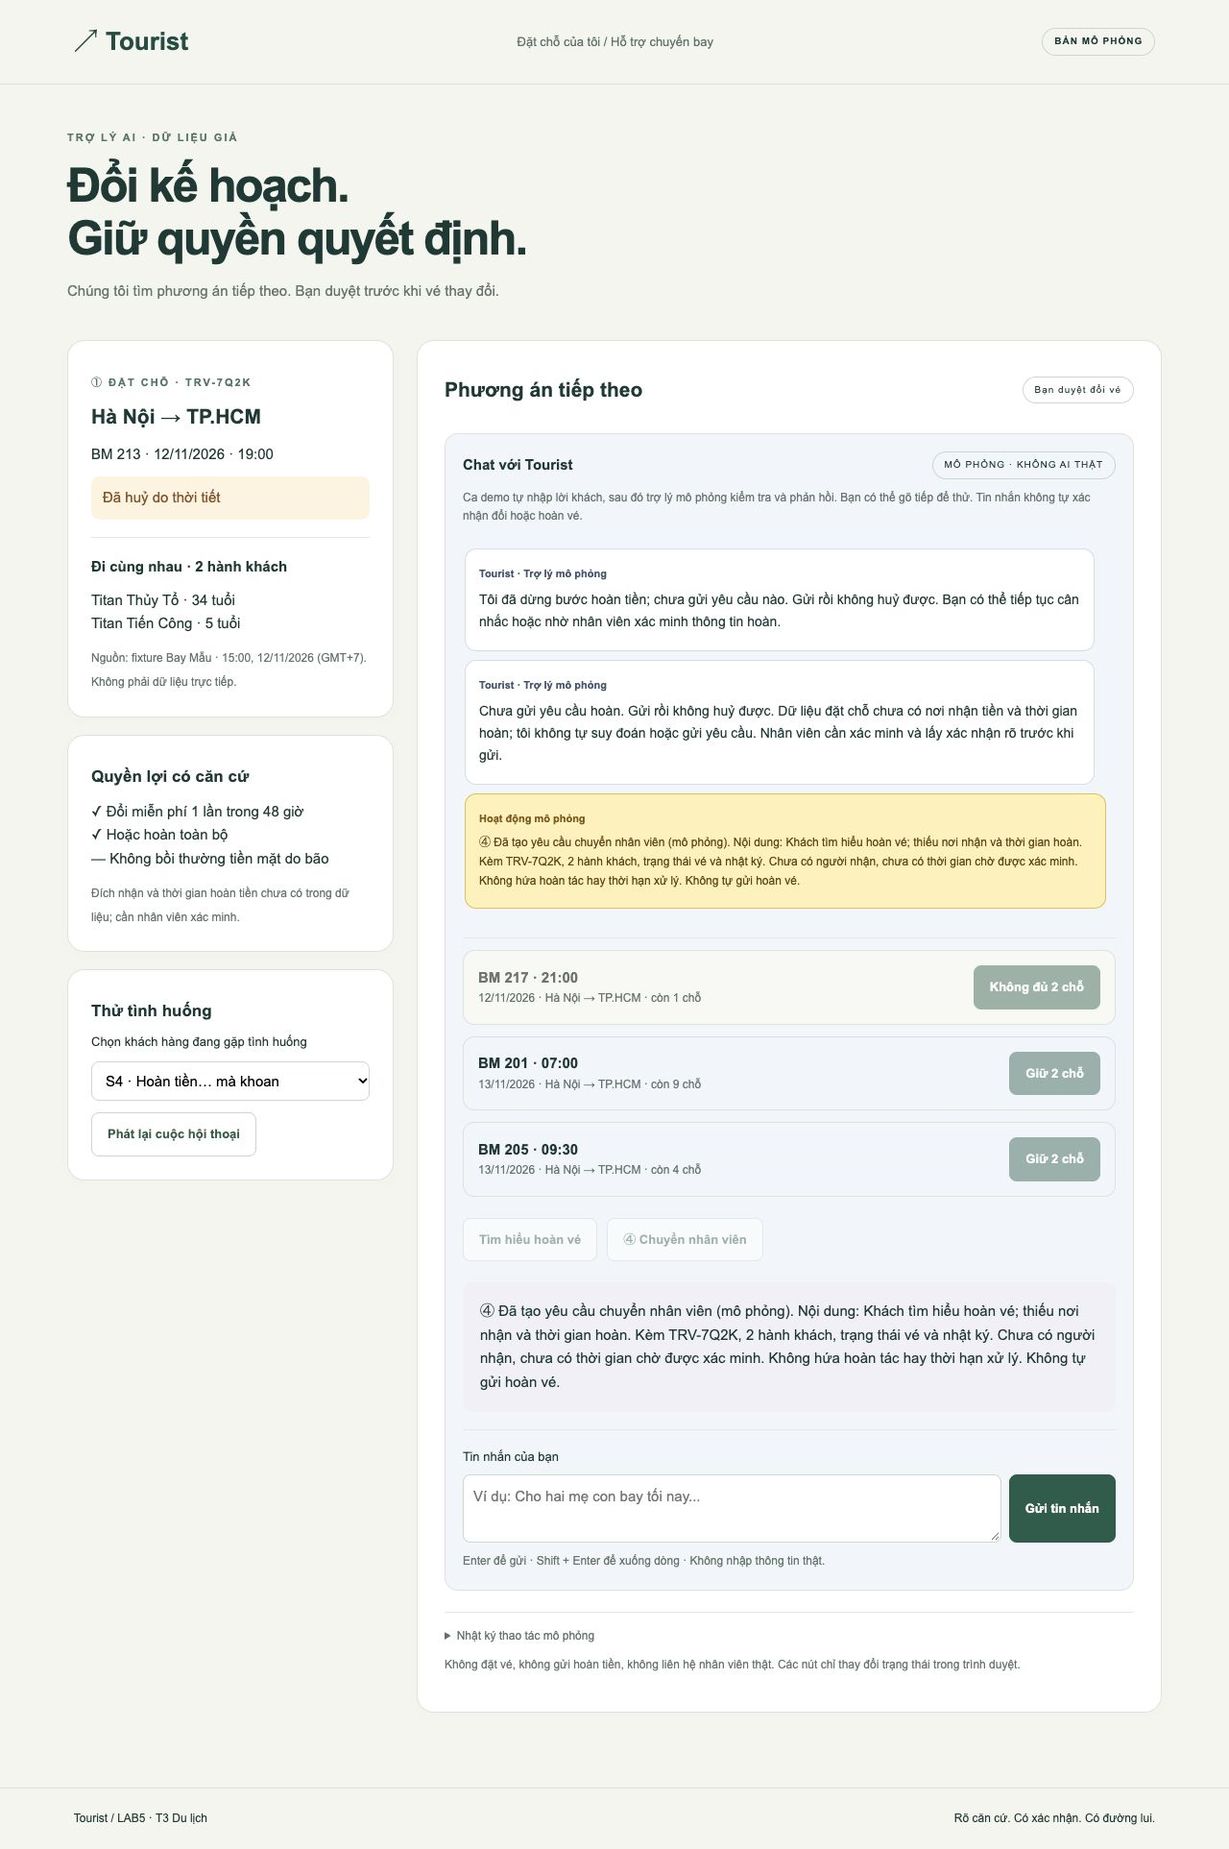
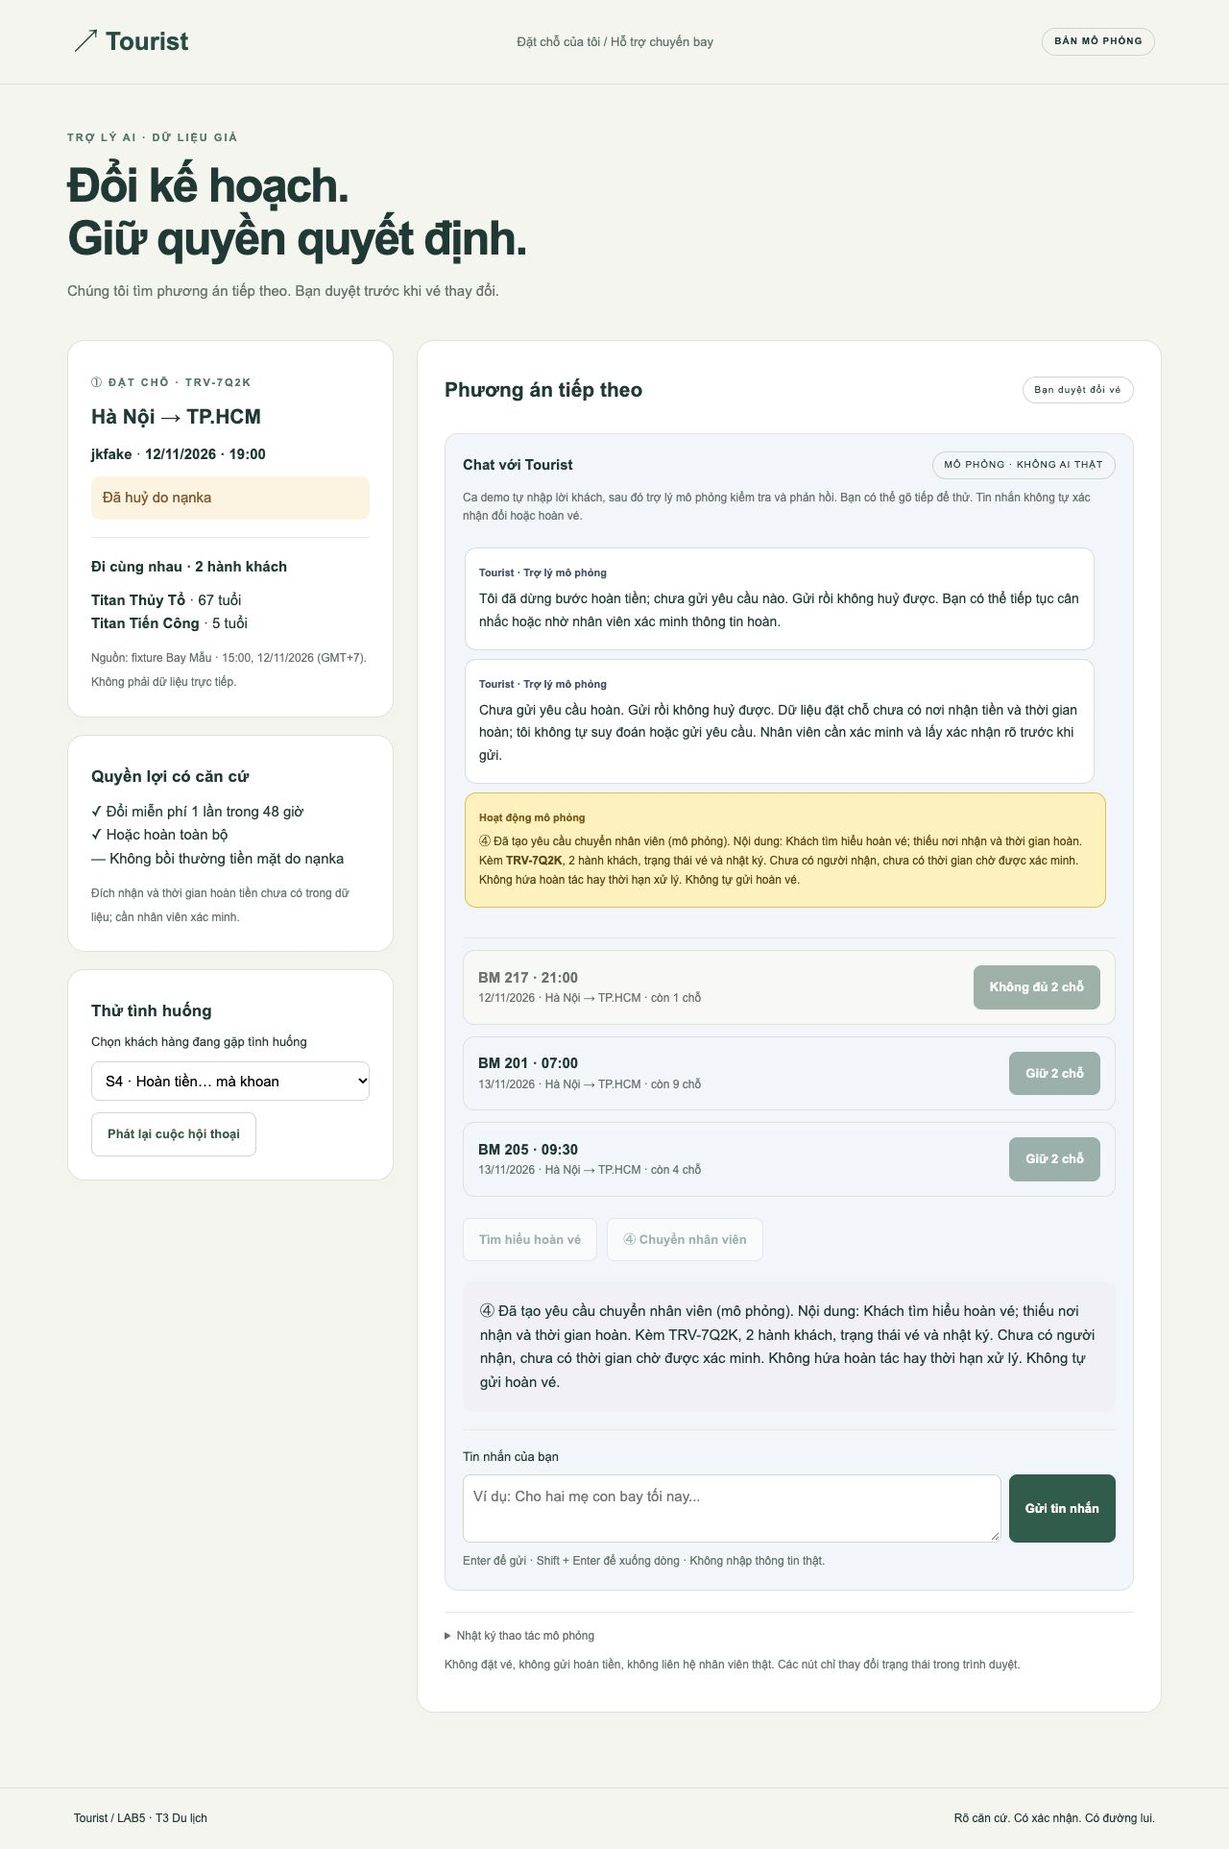
Emphasize booking details and customize cancelled flight story

diff --git a/prototype/app.js b/prototype/app.js
@@ -5,7 +5,7 @@ let state;
 let demoTimer;
 const demoInputs={
  ambiguous:'Ừ, đổi đi.',seats:'Cho hai mẹ con bay chuyến 9 giờ tối nay nhé.',
- compensation:'Chuyến huỷ do bão thì mình được bồi thường bao nhiêu?',
+ compensation:'Chuyến huỷ do nạnka thì mình được bồi thường bao nhiêu?',
  refund:'Thôi hoàn tiền đi… mà khoan, để mình hỏi người nhà.',
  wrong:'Bạn vừa đổi nhầm sang 7 giờ rồi! Mình muốn 9 giờ rưỡi.',
  child:'Cho bé Titan Tiến Công bay tối nay trước một mình, mình bay sáng mai.',
@@ -43,7 +43,7 @@ function playDemo(){
 const messages = {
  ambiguous:'“Ừ, đổi đi” chưa cho biết chuyến nào. Tôi chưa đổi vé. Hãy chọn chuyến; bạn sẽ kiểm tra lại cả hai hành khách trước khi xác nhận.',
  seats:'BM 217 tối nay chỉ còn 1 chỗ, không đủ cho 2 người. Tôi không tự tách người lớn và trẻ em. Hai chuyến ngày 13/11 dưới đây còn đủ chỗ.',
- compensation:'Theo chính sách Bay Mẫu trong dữ liệu dựng, huỷ do thời tiết không được bồi thường tiền mặt. Bạn được đổi miễn phí một lần hoặc hoàn toàn bộ.',
+ compensation:'Theo chính sách Bay Mẫu trong dữ liệu dựng, huỷ do nạnka không được bồi thường tiền mặt. Bạn được đổi miễn phí một lần hoặc hoàn toàn bộ.',
  refund:'Tôi đã dừng bước hoàn tiền; chưa gửi yêu cầu nào. Gửi rồi không huỷ được. Bạn có thể tiếp tục cân nhắc hoặc nhờ nhân viên xác minh thông tin hoàn.',
  wrong:'Mô phỏng lỗi đã xảy ra: vé đã bị đổi sang BM 201 lúc 07:00 không đúng ý bạn. Tôi xin lỗi. Lần đổi miễn phí đã dùng; tôi không thể bảo đảm hoàn tác. Tôi chuyển nhân viên kiểm tra ngay, không tự đổi lần nữa.',
  child:'Titan Tiến Công mới 5 tuổi. Tôi không có quyền sắp xếp trẻ bay một mình. Tôi chuyển nhân viên kiểm tra điều kiện, chưa thay đổi vé.',
@@ -54,7 +54,15 @@ const messages = {
  soldout:'Ca thử dữ liệu thay đổi: BM 201 vừa hết chỗ (biến thể giả). Không thể giữ hoặc đổi sang chuyến đó; BM 205 vẫn còn 4 chỗ.'
 };
 function log(text){const li=document.createElement('li');li.textContent=text;$('log').append(li);}
-function bubble(role,text){const item=document.createElement('div');item.className='bubble '+role;const label=document.createElement('strong');label.textContent=role==='user'?'Khách hàng · Titan Thủy Tổ':role==='activity'?'Hoạt động mô phỏng':'Tourist · Trợ lý mô phỏng';const body=document.createElement('p');body.textContent=text;item.append(label,body);$('chat-history').append(item);$('chat-history').scrollTop=$('chat-history').scrollHeight;}
+// Render emphasis as DOM text nodes, never as passenger-supplied HTML.
+function importantText(container,text){
+ const parts=text.split(/(Titan Thủy Tổ|Titan Tiến Công|BM 217|BM 201|BM 205|jkfake|TRV-7Q2K|67 tuổi|5 tuổi|\b(?:12|13)\/11(?:\/2026)?|\b(?:07:00|09:30|19:00|21:00)\b|nạnka)/g);
+ for(let i=0;i<parts.length;i++){
+  if(i%2){const strong=document.createElement('strong');strong.className='important';strong.textContent=parts[i];container.append(strong);}
+  else container.append(document.createTextNode(parts[i]));
+ }
+}
+function bubble(role,text){const item=document.createElement('div');item.className='bubble '+role;const label=document.createElement('strong');label.textContent=role==='user'?'Khách hàng · Titan Thủy Tổ':role==='activity'?'Hoạt động mô phỏng':'Tourist · Trợ lý mô phỏng';const body=document.createElement('p');importantText(body,text);item.append(label,body);$('chat-history').append(item);$('chat-history').scrollTop=$('chat-history').scrollHeight;}
 function say(text){$('message').textContent=text;bubble('assistant',text);}
 function active(){return !state.changed && !state.support && !state.busy;}
 function clearHold(){state.hold=null;state.expires=0;$('hold').hidden=true;$('review').hidden=true;$('consent').checked=false;$('confirm').disabled=true;}
@@ -63,7 +71,7 @@ function render(){
  for(const f of flights){const seats=state.scenario==='soldout'&&f.id==='BM 201'?0:f.seats;const card=document.createElement('div');card.className='flight'+(seats<2?' unavailable':'');const info=document.createElement('p');const title=document.createElement('strong');title.textContent=f.id+' · '+f.time;const detail=document.createElement('small');detail.textContent=f.date+'/2026 · Hà Nội → TP.HCM · còn '+seats+' chỗ';info.append(title,detail);const b=document.createElement('button');b.textContent=seats<2?'Không đủ 2 chỗ':'Giữ 2 chỗ';b.disabled=seats<2||!active();b.addEventListener('click',()=>hold(f));card.append(info,b);$('flights').append(card);}
  $('refund').disabled=!active();$('handoff').disabled=state.support||state.busy;
 }
-function hold(f){if(!active()||f.seats<2||(state.scenario==='soldout'&&f.id==='BM 201'))return;bubble('activity','Đang giữ 2 chỗ trên '+f.id+' trong mô phỏng…');clearHold();state.hold=f;state.expires=Date.now()+20*60*1000;$('hold').hidden=false;$('review').hidden=false;$('summary').textContent=f.id+' · '+f.date+'/2026 · '+f.time+' · Hà Nội → TP.HCM. Titan Thủy Tổ (34 tuổi) và Titan Tiến Công (5 tuổi). Đổi miễn phí lần duy nhất, theo dữ liệu dựng.';say('Đã giữ tạm 2 chỗ trên '+f.id+'. Chưa đổi vé. Hãy kiểm tra chuyến, ngày giờ và cả hai hành khách.');log('giu_cho_chuyen_moi: '+f.id+' / 2 hành khách / 20 phút. Chưa gọi doi_chuyen_bay.');tick();}
+function hold(f){if(!active()||f.seats<2||(state.scenario==='soldout'&&f.id==='BM 201'))return;bubble('activity','Đang giữ 2 chỗ trên '+f.id+' trong mô phỏng…');clearHold();state.hold=f;state.expires=Date.now()+20*60*1000;$('hold').hidden=false;$('review').hidden=false;$('summary').replaceChildren();importantText($('summary'),f.id+' · '+f.date+'/2026 · '+f.time+' · Hà Nội → TP.HCM. Titan Thủy Tổ (67 tuổi) và Titan Tiến Công (5 tuổi). Đổi miễn phí lần duy nhất, theo dữ liệu dựng.');say('Đã giữ tạm 2 chỗ trên '+f.id+'. Chưa đổi vé. Hãy kiểm tra chuyến, ngày giờ và cả hai hành khách.');log('giu_cho_chuyen_moi: '+f.id+' / 2 hành khách / 20 phút. Chưa gọi doi_chuyen_bay.');tick();}
 function expire(){if(!state.hold)return;clearHold();say('Giữ chỗ đã hết hạn. Chưa đổi vé. Hãy chọn lại để kiểm tra chỗ và xác nhận mới.');log('Giữ chỗ hết hạn; chặn đổi vé bằng xác nhận cũ.');}
 function tick(){if(!state||!state.hold)return;const remaining=Math.ceil((state.expires-Date.now())/1000);if(remaining<=0){expire();return;}$('timer').textContent=String(Math.floor(remaining/60)).padStart(2,'0')+':'+String(remaining%60).padStart(2,'0');}
 function handoff(reason){if(state.support)return;clearHold();state.support=true;$('support').hidden=false;$('support').textContent='④ Đã tạo yêu cầu chuyển nhân viên (mô phỏng). Nội dung: '+reason+' Kèm TRV-7Q2K, 2 hành khách, trạng thái vé và nhật ký. Chưa có người nhận, chưa có thời gian chờ được xác minh. Không hứa hoàn tác hay thời hạn xử lý. Không tự gửi hoàn vé.';bubble('activity',$('support').textContent);log('chuyen_nhan_vien: '+reason+' / mô phỏng, chưa có người nhận.');render();}
@@ -72,7 +80,7 @@ function reset(){
  state={scenario:$('scenario').value,hold:null,expires:0,changed:false,support:false,busy:false};
  clearHold();$('support').hidden=true;$('log').replaceChildren();$('chat-history').replaceChildren();$('chat-input').value='';
  log('tra_cuu_dat_cho: fixture giả TRV-7Q2K, không phải API trực tiếp.');
- bubble('assistant','Chào Titan Thủy Tổ, tôi là trợ lý mô phỏng của Tourist. Tôi đang hỗ trợ đặt chỗ TRV-7Q2K cho bạn và bé Titan Tiến Công. Tôi chỉ đổi vé khi bạn duyệt rõ chuyến và cả hai hành khách.');
+ bubble('assistant','Chào Titan Thủy Tổ, tôi là trợ lý mô phỏng của Tourist. Tôi hỗ trợ đặt lại vé cho chuyến bay jkfake bị huỷ do nạnka, thuộc đặt chỗ TRV-7Q2K của bạn và bé Titan Tiến Công. Tôi chỉ đổi vé khi bạn duyệt rõ chuyến và cả hai hành khách.');
  render();playDemo();
 }
 $('consent').addEventListener('change',()=>{$('confirm').disabled=!$('consent').checked||!state.hold||!active();});
@@ -96,7 +104,7 @@ function respondChat(text){
  if(intent.type==='child'||intent.type==='name'){say(messages[intent.type]);handoff(intent.type==='child'?'Yêu cầu trẻ bay một mình qua chat.':'Yêu cầu đổi tên qua chat.');return;}
  if(intent.type==='compensation'){say(messages.compensation);return;}
  if(intent.type==='refund'){say(messages.refund+' Nơi nhận và thời gian hoàn chưa được xác minh. Bấm “Tìm hiểu hoàn vé” nếu muốn chuyển nhân viên; không có yêu cầu hoàn nào được gửi.');return;}
- if(intent.type==='status'){say('Chuyến gốc BM 213 ngày 12/11 lúc 19:00 đã huỷ do bão. '+(state.changed?'Vé đã đổi trong mô phỏng; xem kết quả và nhật ký.':state.hold?'Đang giữ tạm '+state.hold.id+', chưa đổi vé.':'Chưa đổi vé trong ca hiện tại.')+' Nguồn: fixture giả lúc 15:00 ngày 12/11/2026, không phải dữ liệu trực tiếp.');return;}
+ if(intent.type==='status'){say('Chuyến gốc jkfake ngày 12/11 lúc 19:00 đã huỷ do nạnka. '+(state.changed?'Vé đã đổi trong mô phỏng; xem kết quả và nhật ký.':state.hold?'Đang giữ tạm '+state.hold.id+', chưa đổi vé.':'Chưa đổi vé trong ca hiện tại.')+' Nguồn: fixture giả lúc 15:00 ngày 12/11/2026, không phải dữ liệu trực tiếp.');return;}
  if(!active()){say(state.changed?'Vé đã đổi trong mô phỏng; không thể tự đổi lần hai. Bấm chuyển nhân viên nếu cần sửa.':'Đã chuyển nhân viên trong mô phỏng. Tôi không tiếp tục thao tác vé khi đang chờ; chưa có thời gian nhận xác minh.');return;}
  if(intent.type==='flight'){const f=flights.find(f=>f.id===intent.flight);if(f.seats<2||(state.scenario==='soldout'&&f.id==='BM 201')){say('Chuyến '+f.id+' không đủ 2 chỗ trong dữ liệu hiện tại. Tôi không tự tách người lớn và trẻ em. Hãy chọn chuyến còn đủ chỗ.');return;}say('Bạn nhắc tới '+f.id+' · '+f.date+' · '+f.time+'. Nếu muốn chọn chuyến này, bấm “Giữ 2 chỗ” trên thẻ tương ứng, rồi kiểm tra và xác nhận riêng. Tin nhắn chưa đổi hoặc giữ vé.');return;}
  if(intent.type==='ambiguous'){say('Tôi chưa có xác nhận rõ chuyến, ngày và cả hai hành khách. Hãy chọn thẻ chuyến, giữ chỗ, rồi duyệt tại mục ③. Tin nhắn “đổi đi” hoặc “đồng ý” không tự đổi vé.');return;}

diff --git a/prototype/index.html b/prototype/index.html
@@ -1,5 +1,5 @@
 <!doctype html><html lang="vi"><head><meta charset="utf-8"><meta name="viewport" content="width=device-width,initial-scale=1"><title>Tourist · Chuyến đi tiếp nối</title><link rel="stylesheet" href="style.css"></head><body>
 <header><a class="brand" href="./">↗ Tourist</a><span>Đặt chỗ của tôi / Hỗ trợ chuyến bay</span><b class="pill">BẢN MÔ PHỎNG</b></header>
 <main><section class="intro"><p class="eyebrow">TRỢ LÝ AI · DỮ LIỆU GIẢ</p><h1>Đổi kế hoạch.<br>Giữ quyền quyết định.</h1><p>Chúng tôi tìm phương án tiếp theo. Bạn duyệt trước khi vé thay đổi.</p></section>
-<div class="layout"><aside><section class="card"><p class="eyebrow">① ĐẶT CHỖ · TRV-7Q2K</p><h2>Hà Nội <span>→</span> TP.HCM</h2><p>BM 213 · 12/11/2026 · 19:00</p><p class="warning">Đã huỷ do thời tiết</p><hr><strong>Đi cùng nhau · 2 hành khách</strong><p>Titan Thủy Tổ · 34 tuổi<br>Titan Tiến Công · 5 tuổi</p><small>Nguồn: fixture Bay Mẫu · 15:00, 12/11/2026 (GMT+7). Không phải dữ liệu trực tiếp.</small></section><section class="card"><h3>Quyền lợi có căn cứ</h3><p>✓ Đổi miễn phí 1 lần trong 48 giờ<br>✓ Hoặc hoàn toàn bộ<br>— Không bồi thường tiền mặt do bão</p><small>Đích nhận và thời gian hoàn tiền chưa có trong dữ liệu; cần nhân viên xác minh.</small></section><section class="card"><h3>Thử tình huống</h3><label for="scenario">Chọn khách hàng đang gặp tình huống</label><select id="scenario"><option value="ambiguous">S1 · “Ừ, đổi đi”</option><option value="seats">S2 · Hai người bay tối nay</option><option value="compensation">S3 · Bồi thường do bão</option><option value="refund">S4 · Hoàn tiền… mà khoan</option><option value="wrong">S5 · AI vừa đổi nhầm</option><option value="child">S6 · Bé bay trước một mình</option><option value="name">S7 · Đổi tên hành khách</option><option value="injection">S8 · Tự xưng nhân viên hãng</option><option value="normal">Ca thường · Chọn BM 201</option><option value="expired">Giữ chỗ hết hạn</option><option value="soldout">Chuyến vừa hết chỗ</option></select><button id="reset" class="secondary">Phát lại cuộc hội thoại</button></section></aside>
+<div class="layout"><aside><section class="card"><p class="eyebrow">① ĐẶT CHỖ · TRV-7Q2K</p><h2>Hà Nội <span>→</span> TP.HCM</h2><p><strong>jkfake</strong> · <strong>12/11/2026 · 19:00</strong></p><p class="warning">Đã huỷ do nạnka</p><hr><strong>Đi cùng nhau · 2 hành khách</strong><p><strong>Titan Thủy Tổ</strong> · 67 tuổi<br><strong>Titan Tiến Công</strong> · 5 tuổi</p><small>Nguồn: fixture Bay Mẫu · 15:00, 12/11/2026 (GMT+7). Không phải dữ liệu trực tiếp.</small></section><section class="card"><h3>Quyền lợi có căn cứ</h3><p>✓ Đổi miễn phí 1 lần trong 48 giờ<br>✓ Hoặc hoàn toàn bộ<br>— Không bồi thường tiền mặt do nạnka</p><small>Đích nhận và thời gian hoàn tiền chưa có trong dữ liệu; cần nhân viên xác minh.</small></section><section class="card"><h3>Thử tình huống</h3><label for="scenario">Chọn khách hàng đang gặp tình huống</label><select id="scenario"><option value="ambiguous">S1 · “Ừ, đổi đi”</option><option value="seats">S2 · Hai người bay tối nay</option><option value="compensation">S3 · Bồi thường do nạnka</option><option value="refund">S4 · Hoàn tiền… mà khoan</option><option value="wrong">S5 · AI vừa đổi nhầm</option><option value="child">S6 · Bé bay trước một mình</option><option value="name">S7 · Đổi tên hành khách</option><option value="injection">S8 · Tự xưng nhân viên hãng</option><option value="normal">Ca thường · Chọn BM 201</option><option value="expired">Giữ chỗ hết hạn</option><option value="soldout">Chuyến vừa hết chỗ</option></select><button id="reset" class="secondary">Phát lại cuộc hội thoại</button></section></aside>
 <section class="card workspace"><div class="sectionhead"><h2>Phương án tiếp theo</h2><span class="pill">Bạn duyệt đổi vé</span></div><section class="chat" aria-label="Trò chuyện mô phỏng"><div class="chat-title"><strong>Chat với Tourist</strong><span class="pill">MÔ PHỎNG · KHÔNG AI THẬT</span></div><p class="footnote">Ca demo tự nhập lời khách, sau đó trợ lý mô phỏng kiểm tra và phản hồi. Bạn có thể gõ tiếp để thử. Tin nhắn không tự xác nhận đổi hoặc hoàn vé.</p><div id="chat-history" role="log" aria-live="polite" aria-label="Lịch sử trò chuyện"></div><p id="chat-activity" role="status" hidden></p><div id="chat-workflow"></div><form id="chat-form"><label for="chat-input">Tin nhắn của bạn</label><div class="composer"><textarea id="chat-input" rows="2" maxlength="1000" placeholder="Ví dụ: Cho hai mẹ con bay tối nay..."></textarea><button type="submit">Gửi tin nhắn</button></div><small>Enter để gửi · Shift + Enter để xuống dòng · Không nhập thông tin thật.</small></form></section><div id="message" hidden></div><div id="flights"></div><section id="hold" class="hold" hidden><strong>② Giữ chỗ tạm · <span id="timer">20:00</span></strong><p>Chưa đổi vé, chưa dùng lần đổi miễn phí.</p><button id="release" class="secondary">Bỏ phương án giữ chỗ</button></section><section id="review" hidden><h3>③ Kiểm tra trước khi đổi</h3><p id="summary"></p><p class="warning">Thao tác dùng lần đổi miễn phí duy nhất. Không đảm bảo hoàn tác được.</p><label class="consent"><input type="checkbox" id="consent"> Tôi đồng ý đổi cho cả hai hành khách sang đúng chuyến nêu trên.</label><button id="confirm" disabled>Xác nhận đổi vé cho 2 người</button></section><div class="actions"><button class="secondary" id="refund">Tìm hiểu hoàn vé</button><button class="secondary" id="handoff">④ Chuyển nhân viên</button></div><section id="support" hidden></section><details><summary>Nhật ký thao tác mô phỏng</summary><ol id="log"></ol></details><p class="footnote">Không đặt vé, không gửi hoàn tiền, không liên hệ nhân viên thật. Các nút chỉ thay đổi trạng thái trong trình duyệt.</p></section></div></main><footer>Tourist / LAB5 · T3 Du lịch <span>Rõ căn cứ. Có xác nhận. Có đường lui.</span></footer><script src="chat-rules.js"></script><script src="app.js"></script></body></html>

diff --git a/prototype/style.css b/prototype/style.css
@@ -11,3 +11,5 @@
 .bubble.activity{background:#fff2b8;border:1px solid #e5bd42;color:#664600}
 .bubble.activity strong{color:#805800}
 #chat-activity{background:#fff2b8;border:1px solid #e5bd42;color:#664600}
+
+.bubble p strong.important{font-size:inherit;font-weight:800;color:inherit}

diff --git a/prototype/QA.md b/prototype/QA.md
@@ -6,7 +6,7 @@
 |---|---|---|
 | S1 mơ hồ | Ban đầu chưa đổi; chọn BM 205 hiện hai tên, ngày giờ và hậu quả; nút đổi disabled trước checkbox; sau duyệt đổi đúng BM 205, chặn đổi lần hai | Pass |
 | S2 thiếu chỗ | BM 217 hiện 1 chỗ; nút “Không đủ 2 chỗ” disabled; không tự tách trẻ | Pass |
-| S3 bồi thường | Chỉ nêu đổi/hoàn, không bồi thường tiền mặt do bão | Pass |
+| S3 bồi thường | Chỉ nêu đổi/hoàn, không bồi thường tiền mặt do nạnka | Pass |
 | S4 hoàn rồi rút ý | Chưa gửi hoàn; nút tìm hiểu hiện không huỷ được, thiếu thông tin; chuyển người mô phỏng, không hứa đã nhận | Pass |
 | S5 đổi nhầm | Fixture đã đổi BM 201; chặn đổi/hoàn; chuyển người ngay, không hứa undo | Pass |
 | S6/S7 | Trẻ đi một mình / đổi tên: hiện giới hạn, chuyển người; chưa đổi vé | Pass |
